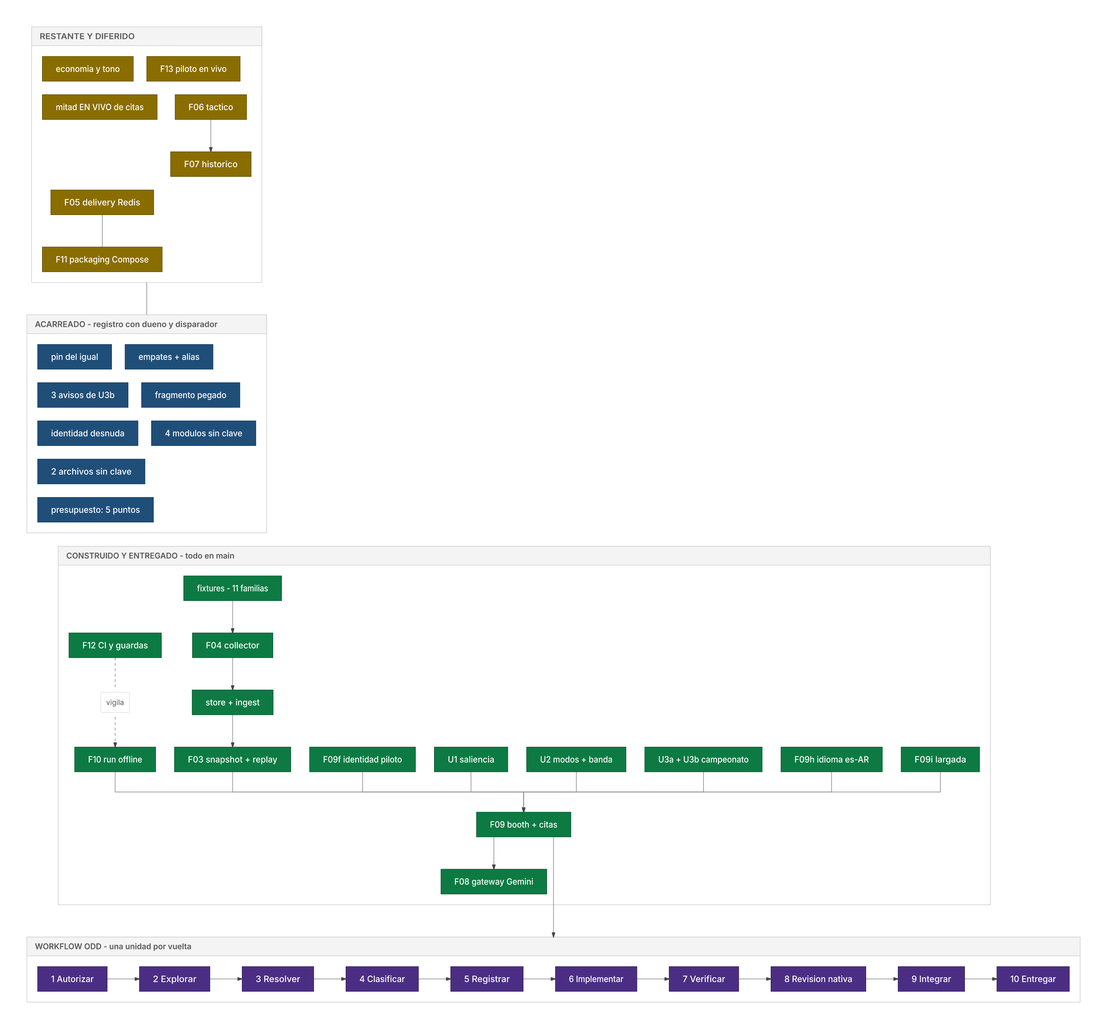
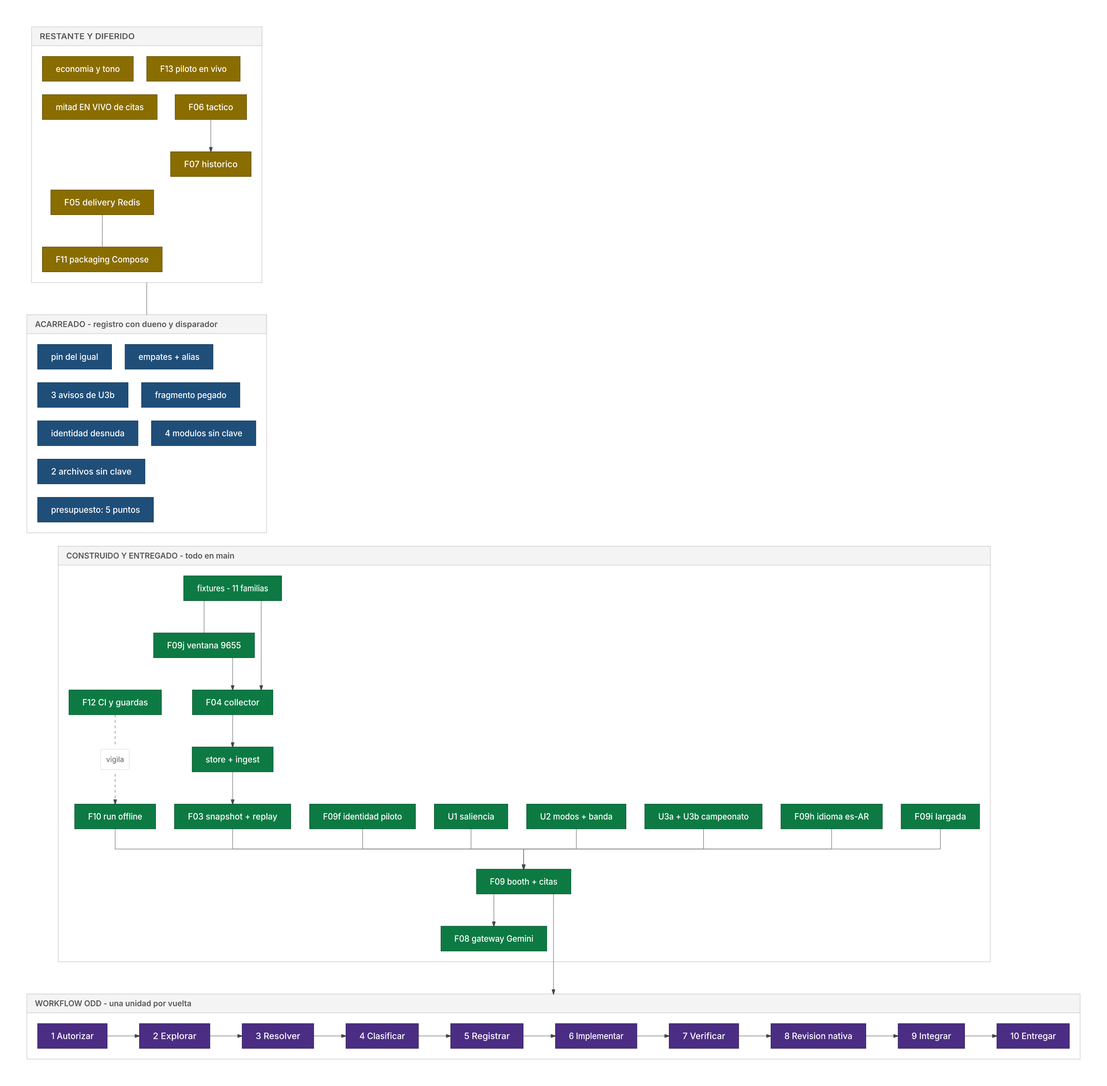
docs(odd): close F09j, re-anchor the register and draw the state snapshot for two sessions

diff --git a/docs/CARRIED-FINDINGS.md b/docs/CARRIED-FINDINGS.md
@@ -156,10 +156,11 @@ means the coordinates are still the ones the reviewer saw. One command per row: 
 | File | Blob at the recorded revision | Blob now | Verdict |
 | --- | --- | --- | --- |
 | `src/f1show/gemini.py` | `466db02b1977788c0faf3e6ffbd019a219c767fa` | same | **current** |
-| `src/f1show/run.py` | `ee44616f94838abfd2e2d44ab83b7241b0c0c801` | `6d228c50d61cb37533b7a221079cfb9bd8eb3f01` (post-F09g/U3b, `d0b3cea`) | **STALE — it read CURRENT at the previous revision**, and all four of its rows moved again when the loader gained the championship families. **A row that reads CURRENT is a measurement, not a promise** and the subject block below re-derived by SUBJECT at `bad0eba`**, where the shift is again not constant: `:123-128` → `:140-143`, `:243-255` → `:288-293`, `:286-316` → `:317-369`, `:168-173` → `:186-189`. The cell read `same`/`current` until F09f added the driver-directory family to the loader |
+| `src/f1show/run.py` | `ee44616f94838abfd2e2d44ab83b7241b0c0c801` | `bd49f2f5901f6da408658db07cab999c0ccdfac7` (post-F09j, `043d2a5`, 400 lines) | **STALE — it read CURRENT at the previous revision**, and all four of its rows moved again when the loader gained the championship families. **A row that reads CURRENT is a measurement, not a promise** and the subject block below re-derived by SUBJECT at `bad0eba`**, where the shift is again not constant: `:123-128` → `:140-143`, `:243-255` → `:288-293`, `:286-316` → `:317-369`, `:168-173` → `:186-189`. The cell read `same`/`current` until F09f added the driver-directory family to the loader. **F09j moved it by exactly +1**, and the shape of that move is worth keeping: the unit's only change to this file is the loader docstring's sentence about `sessions.json` growing from two lines to three, so every tracked subject **below** it moved exactly one line and nothing above it moved at all — `load_recorded_session` stays at **`:121`** while `native_base_url` reads **`:189`**, `main` **`:279`** and `_model_client` **`:337`**. A shift that is constant below a point and zero above it is the case a blob key cannot express and a subject can |
 | `tests/test_run.py` | `e4fd5317baf868bf0a6cfa76de238ff9dd2203b3` | `355190918c8b795876afd2f32717da621281a0c3` (post-F09i, `b0f5f32`, 1,326 lines) | **STALE by blob, and this time the row MOVED**: the reference-only matcher sits at **`:95`** with its comment at `:91-94`, and F09i added a **second** matcher beside it — `_PROMPT_IDENTITY` at **`:101`**, which is what teaches the offline double the start turn's bare-identity form. A new matcher with no row of its own is the same shape as the module-with-no-key this register already names, recorded here so it is not discovered twice Re-derived at `bad0eba`, at `2b52519` and again at `b325770`: the reference-only matcher now sits at **`:94`** with its comment at `:90-93`, where the first two derivations found `:92` and `:88-91`, so the earlier "UNMOVED" verdicts were true when they were written. **The correction is the interesting part**: the same blob key produced two unmoved verdicts and then a moved one, which is the measured demonstration that a key says only that the **file** changed — never whether a **row** did — and that only the per-row derivation can tell them apart. What moved here is the line and not the subject: the matcher still anchors on a bare reference line instead of the old `= value` form, and the `e4fd5317…` cell read `same` while being wrong before the F09e change |
 | `src/f1show/auth.py` | `b1ab34d8f1b3cfff856ec7a4cbf2633cbbb2d8cc` | `51918e432e3b8ae617fb3a1f566b72a9a6193099` | **STALE — rows re-derived** (16 anchors with ids and subjects); the key stays different, correctly |
 | `src/f1show/collector.py` | `a8a81ee93795b7934b32c715bfc47111770155c2` | `3973eb134e797bda1d7062cee357eb70bf69de9f` | **STALE — rows re-derived** (three already current, two moved one line, one closed by change); the key stays different |
+| `tests/test_second_session.py` | `52ab0d942dcda0f9f0a86cfab584bbbd0543efed` (289 lines, recorded at its creation, `043d2a5`) | same | **current** — key and row added by the unit that created both the module and the corpus it pins, in the same closure, which is the repair recorded above; the second unit in a row to satisfy it instead of extending the list of omissions |
 | `tests/test_auth.py` | `66e7e41e39640744de2670a7371c6226ce98258b` | `d9cda83a99a94e8b13da03c814baf1df54c7846e` | **STALE — its row re-derived and UNMOVED** (`:558-559` is exact); the blob over-flagged |
 | `tests/test_collector.py` | `1b3123c684aab95ebf3ae1b9bfcc12b0941da7a7` | `7b4891758e49c00aded53413c85603e87ca169f6` | **STALE — row re-derived** (`:26-33` → `:27-34`) |
 | `src/f1show/booth.py` | `a21d4d1d75e0a5c291b8bdf01183210127748bf5` (post-F09c) | `15054e1a0ce5d6d91fb0440a7dbe462bf3865c95` (post-F09i, `b0f5f32`, 1,192 lines) | **STALE — rows re-derived by SUBJECT for F09d, F09e, F09g/U1, F09g/U2, F09g/U3b, F09h and now F09i**, where the shift is **not constant** (the docstring grew, a function landed at `:443`, the parse path changed) — which is the case that makes the subject the only workable key. Re-derived **a third time for F09f** (the prompt render changed and the parse path moved again), again by subject. **Re-derived once more for F09h** with a read-only explorer: this time the shift **is** constant — **+26** for every subject above the prompt block and **+41** inside it — and that exception is recorded as such, because the per-row list below still gives each located coordinate and **one row did not follow the arithmetic**. **F09i then broke the arithmetic again, in two places on purpose** — the scanner gained an alternative (R1-001's fix) and the walk gained the group branch and the coverage rule (R1-002's and R3-covered-without-start's fix) — so the located list below is the only usable form |
@@ -384,7 +385,7 @@ re-derivation is per ROW, and a section-level claim is not a substitute for it.
 | `:414` (the review reported `:415`) | `R3-salience-median-overflow` (same lineage) | **WARNING**, informational, no body returned | the next unit touching the outlier rule | any change to the median or the fence arithmetic | OPEN — subject **located**: the median computation over the window's valid laps |
 | `booth.py:228`, `PRIORITY_EVENT_TYPES` | the **dead priority band** — found while mapping F09g, no review has seen it | — | **U2**, or the next unit touching seat priority | any change to race-control derivation or to the priority band | OPEN — replaced by U2: `PRIORITY_EVENT_TYPES` now exists at `booth.py:213` as `PRIORITY_EVENT_TYPES: frozenset[EventType] = CAUTION_EVENT_TYPES`, imported from `mode.py` at `:184` and still listed in `__all__` at `:196`, and `_speaker_for` consults `announces_caution`, so the band is no longer dead. **SUPERSEDED as a defect, and deliberately kept as a row** because the old literal set it quoted no longer exists: what remains open is the **stale public alias**, now carried as `R3-stale-band-export` below. U2's own measurement is the closure: under the base booth the seats equal strict alternation, and under U2 they change in 1,023 of 1,648 turns |
 | `_prompt` `:923` and the `render_salience(...)` call at `:987` | the **CONTEXT block** (U1; no review row existed for it) | — | the next unit touching the prompt | any change to `_prompt` | OPEN — the live citation-form row's trigger **re-fired** with this unit, and its live half stays historical |
-| `src/f1show/salience.py`, `tests/test_salience.py`, `src/f1show/mode.py`, `src/f1show/standings.py`, `tests/test_standings.py`, `src/f1show/championship.py` and `tests/test_championship.py` | staleness keys added at their own closures, because the register had **no key and no row** for any of them before, and each key is the **full blob OID** as the rule requires: `salience.py` `c7fe58a9bbb93eeaed595a86d0b09fc96e779043` (611, current), `tests/test_salience.py` `d912d8bf6a931ddcf9e8cf2133a500200378efda` (1100), `mode.py` `a7604d04455d412200c172e85d70f9f8efa9900d` (248, current), `standings.py` `bd20acc1dc396a085b7183994eada9445d258b0d` (402, current), `tests/test_standings.py` `4719cd18830ab9cca8ca7e870d3bc4363de4aa9d` (551), `championship.py` `c547205296236ab4df016a73ad5f2552202d0507` (700) and `tests/test_championship.py` `48ac7b246f35d6144d9bb58367f22a897e6560d0` (724) | — | the next unit touching any of them | any change to any of those files | NEW — and by the end of F09g this happened **four** times in one feature (`salience.py`, `mode.py`, `standings.py`, `championship.py`). Four occurrences are a **defect in this register's closure routine**, not four oversights: the per-unit procedure says to re-derive rows and update keys for files that **changed**, and nothing in it forces a **newly created** file to acquire a key. The repair is therefore procedural and is stated here for whoever owns the next closure: a unit that creates a module must add its staleness key and its row **in the same closure commit** |
+| `src/f1show/salience.py`, `tests/test_salience.py`, `src/f1show/mode.py`, `src/f1show/standings.py`, `tests/test_standings.py`, `src/f1show/championship.py` and `tests/test_championship.py` | staleness keys added at their own closures, because the register had **no key and no row** for any of them before, and each key is the **full blob OID** as the rule requires: `salience.py` `c7fe58a9bbb93eeaed595a86d0b09fc96e779043` (611, current), `tests/test_salience.py` `d912d8bf6a931ddcf9e8cf2133a500200378efda` (1100), `mode.py` `a7604d04455d412200c172e85d70f9f8efa9900d` (248, current), `standings.py` `bd20acc1dc396a085b7183994eada9445d258b0d` (402, current), `tests/test_standings.py` `4719cd18830ab9cca8ca7e870d3bc4363de4aa9d` (551), `championship.py` `c547205296236ab4df016a73ad5f2552202d0507` (700) and `tests/test_championship.py` `48ac7b246f35d6144d9bb58367f22a897e6560d0` (724) | — | the next unit touching any of them | any change to any of those files | NEW — and by the end of F09g this happened **four** times in one feature (`salience.py`, `mode.py`, `standings.py`, `championship.py`). Four occurrences are a **defect in this register's closure routine**, not four oversights: the per-unit procedure says to re-derive rows and update keys for files that **changed**, and nothing in it forces a **newly created** file to acquire a key. The repair is therefore procedural and is stated here for whoever owns the next closure: a unit that creates a module must add its staleness key and its row **in the same closure commit**. **At F09j's closure the `championship.py` blob moved to `9466e8f45788875c3c3346b9a0ac4d88122aff71`** (703 lines) because the declared-season comment had to name **both** recorded sessions; every tracked subject below that comment moved by exactly **+3**, measured on two anchors (`RECORDED_SEASON` `139` → **`:142`** and `build_championship_source` `265` → **`:268`**), and nothing above it moved |
 | `tests/test_ci_config.py`, the property-naming comments | F12e's m4 survivor | — | — | — | **COVERAGE NOTE, and an expected one**: deleting a property-naming comment leaves **803 passed**, because prose has **no mechanical net**. Recorded so nobody reads the class closure as a test-enforced invariant: the class was closed by a **declaration with a measurable criterion** (a scan for the unit-citation tokens returns zero), not by an assertion |
 | `tests/test_ci_config.py`, the imports block | R4-1 (F12c review) | **WARNING**, body unrecoverable | — | — | **CLOSED by characterisation, with the reason written**: the subject **admits no defect today** — every import is used and the grouping is correct (`__future__`, then stdlib, then third-party). Two measurers counted the usages slightly **differently** (`tomllib` 4 versus 2) and both concluded the same; the **counts are not the evidence, the usage is**, which is why this row cites no number. The residual is honest: an assertion whose **subject was something else on that line** cannot be recovered, because the harness returns ids, severities and locations and **never bodies** |
 | `tests/test_ci_config.py`, the mirror comparison | R4-3 (F12c review) | **WARNING**, body unrecoverable | — | — | **CLOSED as obsolete by the previous refactor, with the reason**: the comparison moved into `missing_register_rows(config_text, register_text)` — a **named two-text function whose failure direction is exercised** — so the condition a readability assertion could describe there (a comparison buried in a test body with only its passing case run) **no longer exists in that form**. As a location the subject token is gone; that is the reason, not "no longer applies" |
@@ -620,6 +621,17 @@ approved:
 | `.github/workflows/ci.yml:105-106` | R3-refusal-message-scope (F12c review) | SUGGESTION | the next ci.yml unit | any change to the guard's refusal message | OPEN |
 | `tests/test_ci_config.py:26`, `:157` | R4-1, R4-3 (F12c review) | **WARNING** ×2 | the next unit touching the test | any change to those lines | OPEN — ids only; the bodies are unrecoverable, so the locations are the identity |
 | `docs/CARRIED-FINDINGS.md:385-389`, this section's own prose | R2-harness-rule-count-mismatch = R3-docs-rule-count | **WARNING** + SUGGESTION | — | — | **CLOSED by correction in the same commit**: the sentence said "three" and then **listed five rule names**, and it was ungrammatical besides. The integration review caught a miscount **in the register's own text** — the same defect class this register exists to catch, caught by the gate that re-reviews everything, on itself |
+
+## The recorded corpus, and the second session it now holds (F09j)
+
+| Location | Ids observed there | Severity | Owner | Trigger | Status |
+| --- | --- | --- | --- | --- | --- |
+| `fixtures/openf1/9655/`, ten families, 574,894 bytes | no review id: the corpus was captured and is verified by **measurement** | — | the next unit touching the corpus or the loader | any change to a recorded session, to its provenance, or to the loader's family list | **NEW, AND DELIBERATELY WITHOUT A NATIVE REVIEW** — the first `START` over the whole unit returned **`lens_context_budget_exceeded`** because 575 KB of single-line JSON cannot be turned into reviewer material, and it created **no authority**, so nothing was abandoned or repaired; the unit was split and the review covered the authored part instead. What stands in place of that review is measurement: every file's SHA256 and byte size, every record's `session_key`, the parent's own re-derivation of every pinned number (**1,708** events, the five-lap window's **114**, the start group's **20/29/19**, **1,689** turns and **19** excluded) and an independent verifier's six-claim pass, whose one finding is the row below |
+| `tests/test_second_session.py` | the same closure: the module that pins those numbers | — | the next unit touching the corpus or its pins | any change to session 9655's fixtures or to the loader's family list | **NEW** — the module pins **only** measured numbers and imports nothing from session 9617's suite, because order, indices, null timestamps and seat consequences are session-specific: measured, **1,353** of 1,689 seats differ from strict alternation here against **1,023** of 1,629 on 9617 |
+| `fixtures/openf1/PROVENANCE.md`, both pacing sentences | an independent verifier's finding, not a review's | — (fixed) | — | — | **CLOSED in the same unit** — the 9655 section compared `10 requests in 7.4 s` directly against the **per-minute** ceiling, which reads as about **81 per minute**, and the pre-existing 9617 sentence carried the same defect (`8 in 8.481 s`, about 57). Both now state the two different kinds of bound — **3/second** is an instantaneous rate, **30/minute** is a **count** — and both name the old arithmetic as wrong. Kept as a row because the older sentence predated this unit |
+| `fixtures/openf1/9655/drivers.json` | a measured coincidence, no id | — | — | — | **OBSERVATION** — this file is **exactly 8,013 bytes**, the same size as session 9617's `drivers.json`, and the contents differ. Equal size is never equal content, and it is the provenance's SHA256 that tells them apart |
+
+**Fixtures are keyed by their provenance, not by blob OIDs, and that is deliberate.** `PROVENANCE.md` records each family's byte size, record count, request URL, request time and SHA256, which is a stronger key than a blob row for data no reviewer reads; the F09j corpus alone would have needed ten rows of JSON nobody can review. Recorded here so a later closure does not "repair" the difference by inventing keys |
 
 ## Cross-cutting, from verification rather than from reviews
 

diff --git a/odd/tasks/f1show.md b/odd/tasks/f1show.md
@@ -3655,6 +3655,66 @@ a language with no default, so the variant is the natural extension of a decisio
   merged commit (identical for both) and restored the files to the merged bytes, so the working tree
   matches `main` and a later session cannot mistake a reflow for new work.
 
+### F09j — The second recorded window: session 9655
+
+- [ ] **Authorized 2026-10-13, in the user's own words.** Asked how to choose the second race they chose **"Ir directo a 9655"**; asked about the family they chose **"Omitir intervals"**; asked about the scope they chose **"Sesión completa, verbatim"**. It does **not** cover: any authenticated or live call, a paid tier, a third session, or a change to the existing session's fixtures.
+- **Objective:** a second recorded race so the pipeline — and the start aggregation in particular — can be checked
+  against a session other than 9617, **supplementing** the corpus rather than re-pinning it.
+- **Decisions taken here, with the measurement each rests on.** (1) **Subdirectory:** the loader opens
+  `<dir>/<family>.json`, so the second session lives in `fixtures/openf1/9655/` and is read by passing
+  `fixtures_dir`; **no loader change**. (2) **`intervals` omitted**, and the reason is measured rather than
+  aesthetic: the collector derives **no event** from it and the loader does not even read it, and it is
+  **2,965,644 bytes of the 3,608,000-ish corpus** — about four fifths of the data for none of the behaviour.
+  The omission is declared in the provenance rather than left as a silent gap. (3) **Whole session verbatim,
+  ten GETs** (`sessions?session_key=9655` plus the nine families), on the free tier with **no credential at
+  all**, inside the documented **3 req/s and 30 req/min**. (4) **Season 2024**: `run_session` composes the
+  championship source with the 2024 default and the declared season rules cover only 2024 and 2025, so a
+  later season would be silently scored with the wrong fastest-lap rule.
+- **Invariants that must not move:** the existing session's fixtures, pins and counts are **untouched**; every
+  new fixture is recorded **verbatim** — no sampling and no re-serialisation — with bytes, record count, first
+  and last date, request time and SHA256 in `fixtures/openf1/PROVENANCE.md`; the new session's test module
+  asserts **only** what it measured, and every number in it is re-measured by the parent from the files.
+- **Expected risks, named before the fetch rather than after:** a family that answers empty or 404 for this
+  session (the worker must report it, never invent it); an event count that differs from the record count if
+  the session carries repeated updates, since the collector deduplicates by identity; and the fact that order,
+  indices, null timestamps and seat consequences are all session-specific, so nothing may be inherited from
+  9617's pins.
+- **Route:** one worker writes the capture script, the ten fixtures, the provenance section and the new test
+  module inside a declared surface; then the parent **re-measures every number** from the files themselves, an
+  independent verifier checks the result, the provider's native route runs, and delivery stays a separate
+  user decision.
+- **Delivered as PR #57, merge commit `043d2a5cd153f895c49da10f9813813fb74278cd`,** CI run `38437785270`
+  green on all four jobs, and the merged tree `692a06c4…` is **exactly** the reviewed candidate tree.
+- **It had to be two commits, and the reason is measured rather than aesthetic.** The first `START` over the
+  whole unit returned **`lens_context_budget_exceeded`**: **575 KB of single-line JSON cannot be turned into
+  reviewer material**. That refusal created **no authority** — the provider's own words — so nothing was
+  abandoned or repaired. The documented continuation is to reduce the candidate's scope, so `ed02c18` holds
+  the corpus and `b0899e8` the authored part, and the review covered the authored part (medium tier, one
+  reliability lens, 4 files, **426** lines, approved with its authority burned).
+- **The corpus therefore carries no native review, and the record says so** instead of implying coverage.
+  What stands in its place is **measurement**: each file's SHA256 and byte size, each record's
+  `session_key`, the parent's independent re-derivation of every pinned number, and an independent
+  verifier's six-claim pass.
+- **The verifier's one finding was real and is fixed here.** `10 requests in 7.4 s` compared directly
+  against a **per-minute** ceiling reads as about **81 per minute**, above the documented 30; the two limits
+  are a **rate** (3/second) and a **count** (30/minute), and both provenance sections now say which is which
+  while naming the old arithmetic as **wrong**. The same defect sat in the pre-existing 9617 section, so the
+  repair is stated as covering both rather than only the new one.
+- **Two claims elsewhere were falsified by the new corpus** and are corrected in the same unit:
+  `championship.py`'s declared-season comment named only `1247`/`9617`, and `run.py`'s loader docstring
+  claimed `sessions.json` holds the whole season — true of the first corpus and false of the second's single
+  row.
+- **The measurements this unit adds, every one re-measured by the parent from the bytes:** **1,708** events
+  with no deduplication loss; the five-lap window holds **114** (laps 92, race_control 20, pit 2); the start
+  group has **20 members at position 29** covering **19**; the run gives **1,689** turns, **1,708** outcomes
+  and **19** exclusions with 1,689 model calls; **zero** null `date_start` in 944 laps, so its members are
+  **contiguous at 29-48** where 9617's were not; and **1,353** of 1,689 seats differ from strict alternation
+  against **1,023** of 1,629 on 9617 — the concrete demonstration that seat consequences are
+  session-specific and must never be inherited.
+- **A same-size coincidence worth keeping:** `drivers.json` is **8,013 bytes in both sessions** with
+  different contents. Equal size is never equal content, and it is the provenance's SHA256 that separates
+  them.
+
 ### F10 — Wire bounded end-to-end orchestration
 
 - [ ] Correlate enrichment by event/session/version, apply bounded join deadlines,

diff --git a/docs/PROJECT-STATE.md b/docs/PROJECT-STATE.md
@@ -2,7 +2,7 @@
 
 One page for the question *what exists, what does not, and what is merely carried*. It is a **snapshot**, and it names the revision it was drawn at: `odd/tasks/f1show.md` stays the authority.
 
-**Snapshot:** `b0f5f32` (the merge of PR #55), the close of **F09i** and **F09h** — the start aggregation and the commentary language — suite **986 passing** - CI on **3.12 and 3.14** with **Ruff 0.17.0** pinned - **no open pull requests**.
+**Snapshot:** `043d2a5` (the merge of PR #57), the close of **F09j** — a second recorded session — on top of F09i and F09h; the corpus now holds **two** sessions - suite **991 passing** - CI on **3.12 and 3.14** with **Ruff 0.17.0** pinned - **no open pull requests**.
 
 ## The map
 
@@ -24,7 +24,10 @@ flowchart TB
     CI["F12 CI y guardas"]
     LANG["F09h idioma es-AR"]
     STARTAGG["F09i largada"]
+    WIN2["F09j ventana 9655"]
     FIX --> COL --> STORE --> SNAP --> BOOTH
+    FIX --- WIN2
+    WIN2 --> COL
     ID --> BOOTH
     SAL --> BOOTH
     MODE --> BOOTH
@@ -73,7 +76,7 @@ flowchart TB
   classDef todo fill:#8a6d00,stroke:#5c4800,color:#ffffff
   classDef carry fill:#1f4e79,stroke:#123a5a,color:#ffffff
   classDef wf fill:#4b2e83,stroke:#2f1c52,color:#ffffff
-  class FIX,COL,STORE,SNAP,ID,SAL,MODE,CHAMP,LANG,STARTAGG,BOOTH,GW,RUN,CI built
+  class FIX,WIN2,COL,STORE,SNAP,ID,SAL,MODE,CHAMP,LANG,STARTAGG,BOOTH,GW,RUN,CI built
   class F05,F11,F06,F07,ECON,F13,LIVE todo
   class C1,C2,C3,C4,C5,C6,C7,C8 carry
   class W1,W2,W3,W4,W5,W6,W7,W8,W9,W10 wf
@@ -103,6 +106,7 @@ Exports for readers who cannot render Mermaid: [`project-state.svg`](assets/proj
 | F12 | CI and guards | the lint standard committed with its version pinned, the declared floor enforced, and a register-row guard |
 | F09h | the commentary language | Argentine Spanish (`es-AR`) by default, with `es-419`, `es-MX` and `es-ES` selectable and each declaring its address forms and motorsport vocabulary; an omitted language takes the default, an explicit blank is still an error, and the prompt's citation protocol is unchanged |
 | F09i | the start aggregation | the twenty lap-1 events air as **one start turn** instead of twenty near-identical ones, with one identity per member citable and every absorbed row recording `covered_by_start` — and, when the group's own turn does not air, mirroring its fate instead of claiming coverage |
+| F09j | the second recorded window | session **9655** (the 2024 Qatar Grand Prix) recorded verbatim from the free tier with **no credential**: ten families, **574,894 bytes**, a dated provenance section, and five tests that pin its measured facts; the start rule now has a second, differently-shaped session behind it (zero null timestamps there, where 9617 has an orphan that sorts last) |
 
 ## Remaining, and why
 
@@ -128,6 +132,8 @@ Everything below lives in `docs/CARRIED-FINDINGS.md` with its location, owner an
 - **Three advisories** from U3b, with their subjects located in the source because the harness returns no bodies.
 - A **bare token glued to a letter** (`position[0][99].evil`) **airs on a field-reference surface**; measured on both the pre-change and the post-change bytes, so it is pre-existing, and closing it would also close the declared tolerance for a bare non-empty bracket — a product trade the module reserves to the user.
 - **Two files with no register row and no staleness key at all**: `src/f1show/config.py` and `tests/test_config.py`, named in the register as a gap rather than repaired by ceremony.
+- **The second recorded session carries no native review**, and the reason is measured: 575 KB of single-line JSON exceeded the provider's reviewer lens budget, and the split that followed means the review covered the authored part only. It is verified by **measurement** instead — file hashes, counts, the parent's re-derivation and an independent verifier's pass — and the register row says so.
+- The **pacing arithmetic** in both provenance sections was wrong as written (`10 requests in 7.4 s` and `8 in 8.481 s` compared against a **per-minute** ceiling read as about 81 and 57); both now state a rate bound and a count bound separately, with the old arithmetic named as wrong.
 
 ## The workflow every unit goes through
 
